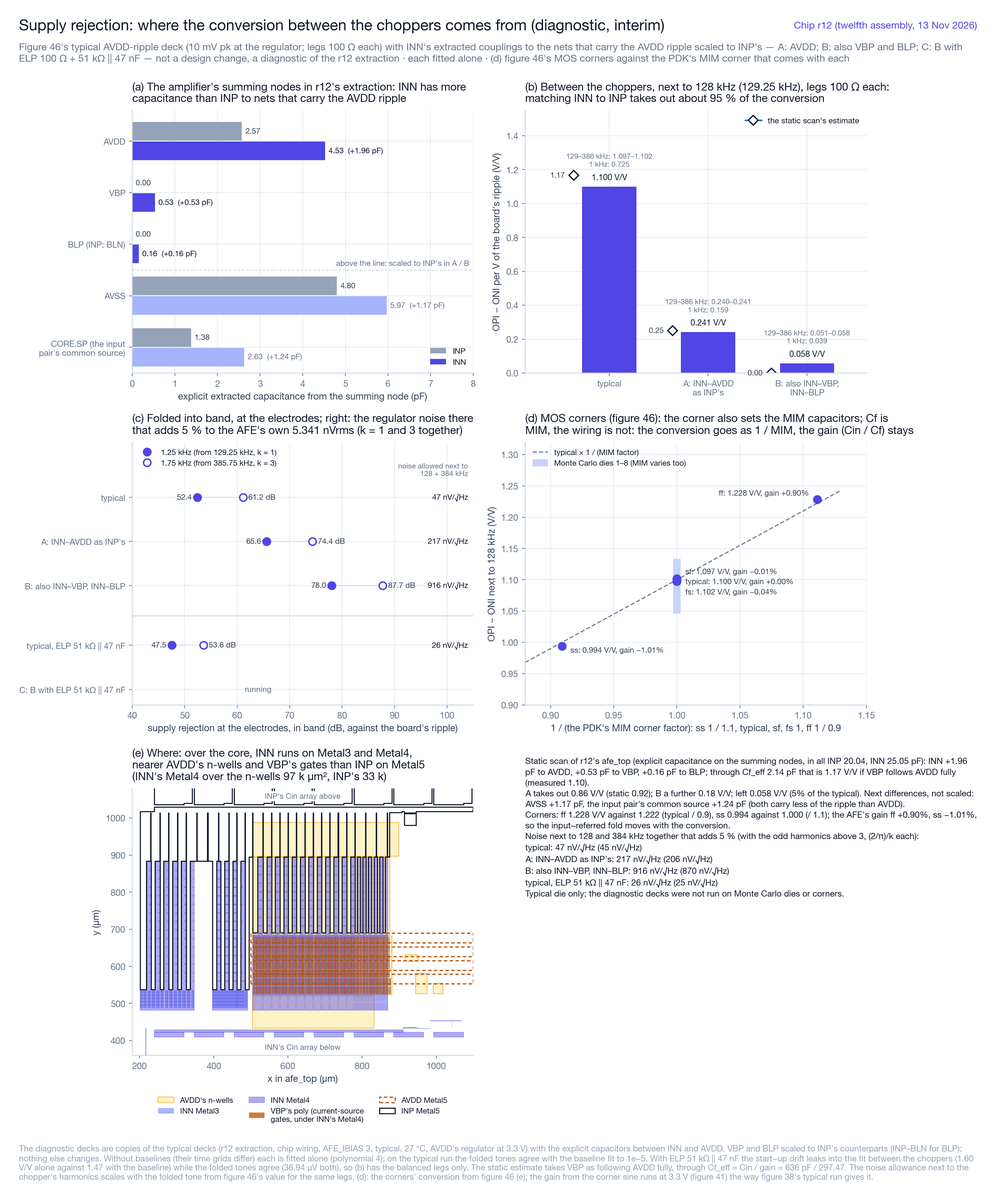
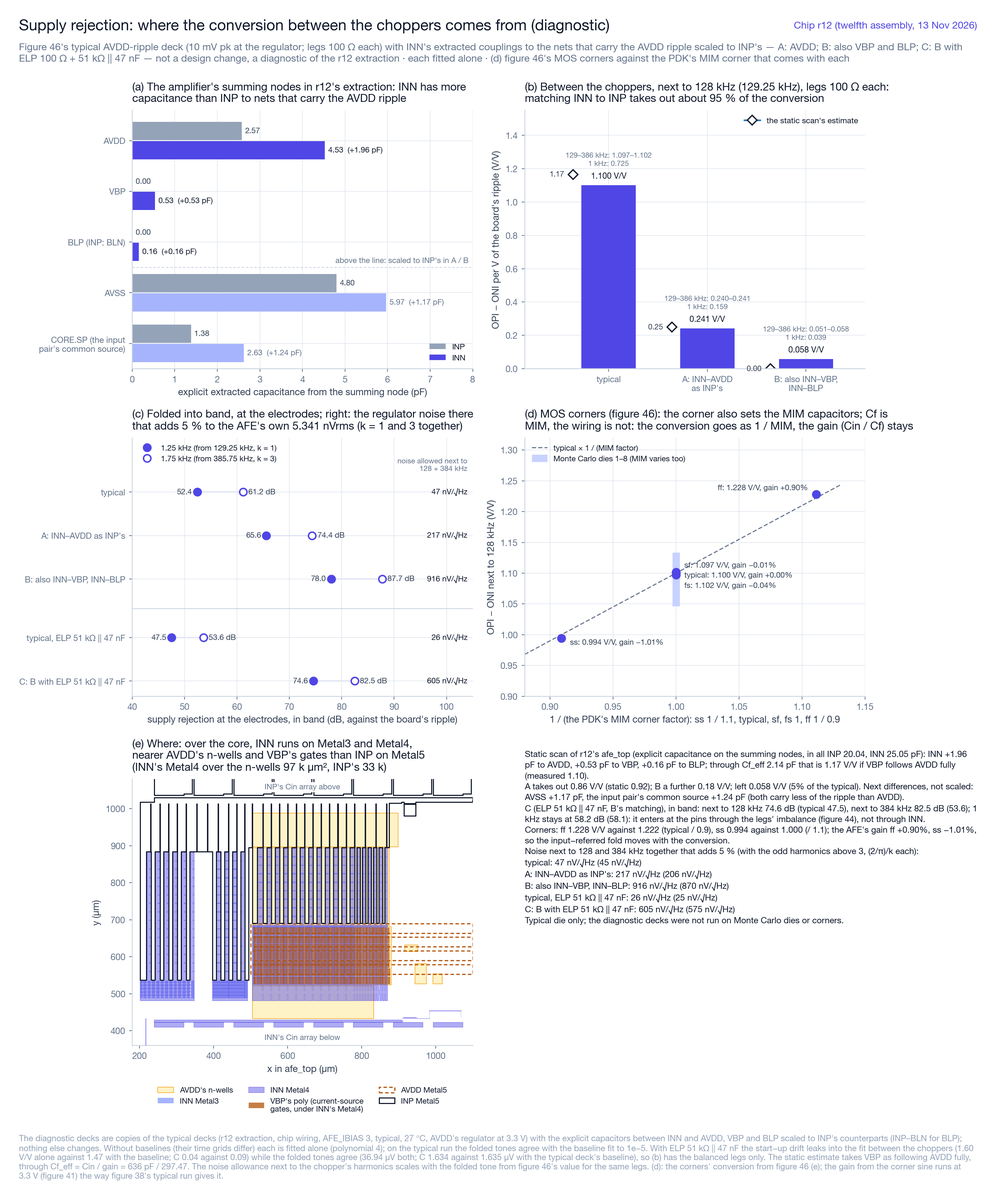
GF180 D7（11/19）：PSRR の診断 C と図 47 の仕上げ。B と同じに INN の AVDD、VBP、BLP への容量を INP にそろえ、ELP に 51 kΩ ∥ 47 nF を入れた C（設計の変更ではない）が、9 時 57 分〜12 時 34 分にターミナルのタブで 10 ms まで回った。帯域内で、128 kHz のそば（1.25 kHz に戻る）は 47.5 → 74.6 dB（36.94 → 1.63 µV）、384 kHz のそば（1.75 kHz）は 53.6 → 82.5 dB、128 kHz と 384 kHz のそばに許せる雑音は 26 → 605 n

diff --git a/first_tapeout_eeg/gf180/tapeout/viz/psrr_diag_fig.py b/first_tapeout_eeg/gf180/tapeout/viz/psrr_diag_fig.py
@@ -70,8 +70,9 @@ def main():
                        "and BLP scaled to INP's counterparts (INP–BLN for BLP); nothing else changes. Without baselines "
                        "(their time grids differ) each is fitted alone (polynomial 4); on the typical run the folded tones "
                        "agree with the baseline fit to 1e−5. With ELP 51 kΩ || 47 nF the start-up drift leaks into the fit "
-                       "between the choppers (1.60 V/V alone against 1.47 with the baseline) while the folded tones agree "
-                       "(36.94 µV both), so (b) has the balanced legs only. The static estimate takes VBP as following "
+                       "between the choppers (1.60 V/V alone against 1.47 with the baseline; C 0.04 against 0.09) while "
+                       "the folded tones agree (36.94 µV both; C 1.634 against 1.635 µV with the typical deck's baseline), "
+                       "so (b) has the balanced legs only. The static estimate takes VBP as following "
                        "AVDD fully, through Cf_eff = Cin / gain = 636 pF / 297.47. The noise allowance next to the "
                        "chopper's harmonics scales with the folded tone from figure 46's value for the same legs. (d): the "
                        "corners' conversion from figure 46 (e); the gain from the corner sine runs at 3.3 V (figure 41) "
@@ -230,6 +231,13 @@ def main():
                      f"{(st['AVSS/AVSS'][1] - st['AVSS/AVSS'][0]) / 1e3:+.2f} pF, the input pair's common source "
                      f"{(st['CORE.SP/CORE.SP'][1] - st['CORE.SP/CORE.SP'][0]) / 1e3:+.2f} pF (both carry less of the "
                      "ripple than AVDD).")
+    if "C" in runs and "typical, ELP 51k||47n" in runs:
+        u, c_ = runs["typical, ELP 51k||47n"], runs["C"]
+        items.append(f"C (ELP 51 kΩ || 47 nF, B's matching), in band: next to 128 kHz {tone(c_, 1)['psrr_board_db']:.1f} dB "
+                     f"(typical {tone(u, 1)['psrr_board_db']:.1f}), next to 384 kHz {tone(c_, 3)['psrr_board_db']:.1f} dB "
+                     f"({tone(u, 3)['psrr_board_db']:.1f}); 1 kHz stays at {tone(c_, 0)['psrr_board_db']:.1f} dB "
+                     f"({tone(u, 0)['psrr_board_db']:.1f}): it enters at the pins through the legs' imbalance (figure 44), "
+                     "not through INN.")
     ff, ss = cs.get("ff"), cs.get("ss")
     if ff and ss:
         items.append(f"Corners: ff {ff['between_vv']:.3f} V/V against {ff['pred_vv']:.3f} (typical / 0.9), ss "

diff --git a/first_tapeout_eeg/gf180/tapeout/pex/psrr_diag.py b/first_tapeout_eeg/gf180/tapeout/pex/psrr_diag.py
@@ -22,6 +22,11 @@ where the static estimate says 0.92). The MOS corners move it because the corner
 PDK's mimcap_ff 0.9, mimcap_ss 1.1 for the 2 fF/um2 MIM): Cf is MIM, the wiring is not, so the conversion goes as
 1 / (the MIM factor) (ff 1.228 against 1.100 / 0.9 = 1.222, ss 0.994 against 1.000), while the AFE's gain (Cin / Cf,
 both MIM) moves 1 % or less (the corner sine runs at 3.3 V: ff +0.9 %, ss -1.0 %).
+C (11/19 noon, ELP 51 kohm || 47 nF with B's matching): in band 74.6 dB next to 128 kHz and 82.5 dB next to 384 kHz
+against the typical deck's 47.5 and 53.6 dB (the noise allowance 605 against 26 nV/rtHz); 1 kHz stays at 58.2 dB (58.1):
+it enters at the pins through the legs' imbalance, not through INN. Its conversion between the choppers moves with the
+fit (0.04 and 0.09 V/V for k = 1 and 3 swap against the typical deck's baseline) while the folded tones agree (1.634
+against 1.635 uV next to 128 kHz).
 
 Usage: gf180/tools/venv310/bin/python gf180/tapeout/pex/psrr_diag.py --make     (writes runs/psrr_r12/diag_A, _B, _C)
        gf180/tools/venv310/bin/python gf180/tapeout/pex/psrr_diag.py --layout   (runs/psrr_r12/diag_layout.json)

diff --git a/first_tapeout_eeg/documentation/gf180_tapeout_tracker.md b/first_tapeout_eeg/documentation/gf180_tapeout_tracker.md
@@ -103,7 +103,7 @@
 | D4 | L3：AFE＋ADC＋DAC セル＋量子化器の短窓トランジスタ E2E。10/22：`gf180/tapeout/sim/e2e/e2e_deck.py`（AFE とそのクロックドライバ、ADC ブロック、バイアス生成、基準電圧のフィルタ。typical）で 70 µs を回した。16 kHz・フルスケールの正弦波で、AFE の出力（チョッパ周期の平均）の利得 268.9（周期平均の sinc を除くと約 276）、ADC まで含めた全体 282、量子化の残差 0.031（DAC の段の単位、ADC 単体と同じ）、AVDD 27.2 mA。窓が 16 kHz の 0.8 周期しかないので、利得の精度は数 %。AFE_RST を解除した瞬間の入力が Cin に残る起動時の現象を見つけた（AFE の文書）。1 本 45〜75 分。10/24：寄生込みの E2E（`gf180/tapeout/pex/pex_e2e.py`、`gf180_pex_20261023.md` の「寄生込みの E2E」、図 `documentation/figures/gf180/r9_20261029/e2e_pex/gf180_e2e_pex_r9_*.png`）。AFE と ADC を最終のチップ（B7、B4 の直し込み）の抽出に差し替え、Ch-A を横切る OUTP／OUTN のチップの配線（74／70 fF、片側 35.6 Ω）も足して、回路図と比べた。AFE の利得 291.4（回路図 291.5、配線込み 290.9）、全体 301.2〜301.9、AVDD 27.2 mA、O2 −33〜+34 mV で同等。量子化の残差は寄生込みで約 2 倍（0.017 → 0.032、帯域の外）。リセットの解除のあとの相 A／B の不釣り合い（寄生込みで 19 mV、時定数 143 µs で抜ける）で、ADC の入力の瞬時値は最大 297 mV（フルスケール 300 mV の内側）。仕様を外れるものはない。10/25：4 回目のチップ（電極の DC 電流の直しのあと）の抽出で回し直した。AFE の利得 291.3（配線込み 290.8）、全体 301.5〜302.5、量子化の残差 0.028／0.021。相 A／B の不釣り合いは 19 → −2.6 mV（その大きさは入力チョッパのクロックの結合の WP／WN の差で決まっていた）、ADC の入力の瞬時値は ±287 mV で回路図と同じ。10/26：5 回目のチップ（WN の配線抵抗の直しのあと）でも回し直し、ほぼ同じ（相 A／B −2.7 mV、量子化の残差 0.026／0.021、ADC の入力 ±287 mV）。10/26 夜：6 回目のチップ（Magic DRC の直しのあと）でも回し直し、ほぼ同じ（AFE の利得 291.3、相 A／B −2.7 mV、量子化の残差 0.025／0.021、ADC の入力 ±287 mV）。10/30：9 回目のチップ（ADC は C1・C2 を 1.25 倍にした 7 回目の抽出、AFE は 6 回目と同じ）で回し直した（`runs/e2e_r7/`。d4 と sch も今の回路図で）：AFE の利得 291.3（配線込み 290.8）、全体 299.8〜300.4、量子化の残差 0.016／0.017（回路図 0.017。寄生込みで増えなくなった）、相 A／B −2.7 mV、ADC の入力 ±287 mV。11/9：10 回目のチップ（量子化器のラッチのグラウンドを AVSS につないだ ADC の抽出）で 4 通りとも回し直し、すべて同じ値（`runs/e2e_r10/`。抽出は基板を AVSS とするので、前からラッチは AVSS につながった形で計算されていた）。11/13：11 回目と 12 回目の抽出でも回した（`runs/e2e_r11/`、`runs/e2e_r12/`）。寄生込みは AFE の利得 291.4、全体 299.8／300.4、残差 0.019／0.019。チップの配線込み（pexchip。OUTP／OUTN が約 20 Ω 長くなった）は 290.6、299.9／299.5、0.018／0.014 で、r10 と同じ大きさ。残り：コーナー | 11/17 | ▶（typical ✅、寄生込み ✅） |
 | D5 | 今回 rev の構成決定レビュー。判断が要るもの：ADC のポリ抵抗のフリッカ（11/12、D7、図 33。PDK の大きさを今の電流でとると、フルスケールで 16.26 bit）。11/12 に直す案を調べた（`gf180_realistic_eval_20261028.md` の「RIN と DAC1 を ppolyf_u に替える案」、図 `plan_20261112`、設計はまだ変えていない）：1 単位（300 kΩ）を幅 0.8 µm の ppolyf_u 2 本の直列にすると、雑音 0.069 倍で、フルスケールでも 16.57 bit。抵抗の間を 0.4 µm にし、OTA1 と第 2 段を東へ 28.9 µm ずらせば ADC に収まる（外形は同じ）。角は今と同じ ±20 %、温度による変化は約 1/10。DAC1 は偶成分が要求の 1/90 以下のまま、出力の電位差への感度が 1.59 倍（ループの HD3 約 −129 dBc）、BRK の時間は同じ。R21 も替えるとよい。替えるなら ADC のレイアウト、DRC／LVS、precheck、PEX、DAC1 とループの確認、通し（約 54 時間）をやり直す（1 週間ほど）。替えないなら、フルスケールの 16.26 bit を予測として明記し、チップで測る。勧めは替えるほう（ENOB はフルスケールに近い正弦波で測るため）。**11/12 にユーザーが替えると決めた**（RIN と DAC1、勧めのとおり R21 も ppolyf_u に。11 回目のチップで作業する。走っている 10 回目の通しは r10 の抽出だけを読むので、止めずに進める）。11/12〜13：11 回目のチップで替えた（E4）。作ったままの抵抗でフリッカを計算し直し、フルスケールで 0.29 nVrms、16.57 bit（入力が小さいときと同じ。`runs/adc_flicker_r11`）。11/13：外から指摘のあった、敏感な網の下を通るクロックとデータの線を、ユーザーの判断で 12 回目で直した（E3、E4）。AFE の通路の覆いで電極の DC 電流が ±1.56 → ±1.71 nA になるが、ユーザーの判断で覆いは残した。**発注の候補は r12**（E8）。**11/18 の構成決定（ユーザーの判断）**：チップは r12 のまま。AVDD は調整できるレギュレータでダイごとに合わせる（F2）。DAC で打ち消したオフセットの電流のためにチップは直さず、限界として記録する（D7、勧めに対する返事「go」） | 11/18 | ✅ |
 | D6 | L4：重要ブロックの PEX 確認（チョッパの寄生結合、AFE 入力節点、積分器・DAC）。10/23：magic で寄生容量を抽出し（ネット名は KLayout の LVS の結果で回路図に対応づけ、MIM の基板容量は下の板へ補正）、入力の信号経路の配線抵抗は KLayout の R 抽出で求めた。AFE、ADC のループ、DAC1、OTA1 のチョッパを、回路図・抽出した素子だけ・寄生込みの 3 つで比べた（`gf180/tapeout/pex/`、`documentation/gf180_pex_20261023.md`）。寄生容量だけなら差は小さい（AFE の雑音 4.64 → 4.70 nVrms、利得 −0.2 %、HD3 −116 dBc、ADC のループの利得・CM・電流、積分器の整定は同等）。**仕様を外れるもの 4 つ**：① 入力の信号経路の配線抵抗が片側 76／119 Ω（コアの入力対のゲート配線 72／115、Cin の下の板の網 4.0、チョッパの EP／EN 0.35）で、AFE の雑音 19.1 nVrms、約 14.8 bit。② DAC1 の偶成分 0.47〜0.69 fC（要求 0.008 fC）で SNDR 約 70 dB。③ DC 経路のスイッチの CIB2 の結合の非対称で AFE の出力に 39 mV p-p のリップル。④ 量子化器の入力の結合の非対称で判定が平均 +2.4 LSB ずれる。原因と直し方（目標値つき）は文書の「直し方」。直したあと同じ流れで確かめる。10/24：4 件をレイアウトで直し（E3、E4）、チップを組み直して抽出と比較を回し直した（文書の「直したあとの確認」）。4 件とも仕様の内側に戻った：配線抵抗は片側 0.634／0.676 Ω（チップで測定。Cin の下の Metal3 の面は Tesselation）、DAC1 の偶成分 −0.0014 fC（123 dB）、リップル 3.62 mV p-p、量子化器の入力の結合はそろい、ループの残差 0.027。AFE の雑音は寄生込みで 4.81 nVrms、配線抵抗込みで 5.05 nVrms、総残差 6.05〜6.07 nVrms（16.45〜16.46 bit）で、16.50 bit に 0.04〜0.05 bit 足りない（片側 0.35 Ω まで下げるには AFE の配置の変更が要り、今回 rev はこの形）。抽出の補正を直した：magic が MIM の上の板に付ける、下の導体（Cin の下の Metal3 の面など）への容量を下の板へ移す（`pex.py` の `mim_shield`。AFE で WP–INP の見かけの 21.3 pF を消した）。**新しく 1 件が仕様を外れた**（直し方 1、2 の副作用）：INP と増幅器の出力 ONI／OPI の結合（P 側だけ 617／526 fF。コアの上端で INP を Cin のバスへつなぐ Metal5 の下を ONI／OPI の Metal4 が通る）で、フルスケールの HD2 −70 dBc（仕様 −111 dBc 以下）、利得 −2 % 前後。抽出からこの結合だけを除くと HD2 −114 dBc に戻る。E3 で直した（幹線を移して遮蔽、出力部の P 側を N 側の鏡映に。4 つの結合は 9 fF 以下、HD2〜HD5 −113.8／−117.2／−120.9／−137.7 dBc、利得は回路図に戻った）。リップルは 4.00 mV p-p（目標の境、クロックの線と出力の結合の P／N の差。帯域の外なので受け入れ）。チップを組み直した（E7）。2 回目までの歪みの確認は 2 kHz だけで、帯域内の低い周波数の HD2（DC 経路が 1 本で −87 dBc）は B7 の確認で見つかり、DC 経路を対称にして直した（0cb0fff4）。B7 と B4 の直しを入れた最終のチップ（3 回目、10/24）で確かめ直した：帯域内のフルスケールの HD2〜HD5 −132.7／−120.4／−160.9／−144.5 dBc、リップル 2.02 mV p-p、AFE の雑音 4.81 nVrms（配線抵抗込み 5.05）、配線抵抗は片側 0.634／0.676 Ω で変わらず。チップは DRC 違反なし、LVS 一致、穴埋めのあとの全 DRC も違反なし、precheck 通過。**10/25：信号がなくても電極に流れる DC 電流を調べて直した**（文書の「電極に流れる DC 電流（10/25）」）。3 回目の抽出の I_ELP −40.0／I_ELN +33.3 nA（`viz_data.py zin`）のうち、同相の −3.4 nA ずつは ngspice の GMIN による見かけ（抽出の入力 TG が PMOS M=1024・NMOS M=512 の 1 素子ずつで、接合ごとの GMIN が打ち消さない）で、実際は差動 ±36.6 nA。入力チョッパのゲートのクロックの結合が WP と WN で違い（チョッパの中のストラップの並びで WN だけが CIA／NCIA のピンの隣、ゲートの折り返しが WN の面の下、上端の WP の板、OFPH の西の線が WN の面の下）、交換器が電荷を一方の電極から他方へ運んでいた。電極の要求を 1 本あたり 1 nA 以下（1 MΩ で 1 mV）とし、1 MΩ で片側 37 mV（16.5 bit の前提の電極オフセット数 mV を外れる）なので不適合と判断して、E3 のレイアウトで直した：差動 ±1.65 nA（22 分の 1、ポンプに効く結合の差 −90.6 → +0.6 fF）、チップの配線を足して ±1.35 nA。残りはコアの INP／INN の寄生の非対称による（抽出で INP／INN を対称にすると差動 +0.5 nA）。今回 rev はこの値で受け入れる（1 MΩ で片側 1.65 mV、範囲 1 の内側）。雑音 4.811 nVrms、利得 297.89 は変わらない。副作用：チョッパの下の WN の面からゲートのレーンの通路を外したため、WN の W の配線抵抗が 0.339 → 0.570 Ω（通路を渡るのが Cin_N のバス 5 µm だけ）。配線抵抗込みの雑音 5.048 → 5.086 nVrms、総残差 6.05 → 6.08 nVrms（16.46 → 16.45 bit）。直すなら通路の上に WN の Metal5 だけを戻す（`gf180_pex_20261023.md`）。10/25 午後：可視化の図（`gf180_viz_20261024.md`）と、配線抵抗・歪み・寄生込みの E2E を 4 回目のチップで測り直した：帯域内の静的な HD2〜HD5 −165.8／−120.3／−148.9／−145.5 dBc、2 kHz −134.1／−118.2／−143.9／−141.6 dBc（仕様の内側）。10/25 夜：通路の上に WN の Metal5 を戻して直した（5 回目のチップ、E3）：WN の W 0.354 Ω、配線抵抗は両側 1.32 Ω（1.47 nVrms）、配線抵抗込みの雑音 5.049 nVrms、総残差 6.05〜6.07 nVrms（16.45〜16.46 bit、10/24 と同じ）。ポンプに効く結合の差 +0.61 → +0.80 fF、電極の DC 電流 ±1.56 nA、利得 297.89、リップル 2.37 mV p-p。10/26 朝：歪み、寄生込みの E2E、`viz_data.py` の AFE の組も 5 回目の抽出で回し直した（4 回目とほぼ同じ）：帯域内の静的な HD2〜HD5 −167.2／−120.3／−149.0／−145.5 dBc、2 kHz −134.2／−118.1／−143.0／−141.5 dBc、E2E の AFE の利得 291.3、相 A／B −2.7 mV、ADC の入力 ±287 mV。可視化の図 10、16〜24 も描き直した。10/26（6 回目、Magic DRC の直し：抵抗のコンタクトと MIM の Via4）：AFE と DAC1 を抽出し直して確かめた。雑音 4.811 nVrms（配線抵抗込み 5.050）、利得 297.89、リップル 2.37 mV p-p、電極の DC 電流 −1.55／+1.57 nA、DAC1 の偶成分 −0.00135／−0.00125 fC で 5 回目と同じ。配線抵抗の W は Cin の Via4 の分で 0.347／0.357 Ω（+3〜4 mΩ、`gf180_pex_20261023.md`）。10/26 夜：歪み（帯域内の静的な HD2〜HD5 −164.0／−120.3／−148.9／−146.0 dBc、2 kHz −133.9／−118.1／−141.4／−141.1 dBc）、寄生込みの E2E、`viz_data.py` の組、ADC のループ（利得 1.0040、残差 0.0318、判定が理想のしきい値と合うフレーム 91.2 %。3 回目の抽出からの差は 80 フレームの窓の揺れの範囲）、DAC1 の偶成分の行動モデル（123.0 dB）も 6 回目の抽出で回し直した。どれも 5 回目（ADC は 3 回目）とほぼ同じ。可視化の図は版ごとのフォルダ（`documentation/figures/gf180/r6_20261026/`）に全部描き直し、KLayout で描いたレイアウトの図 9 枚を足した。10/30：9 回目のチップ（今の版）の図を `documentation/figures/gf180/r9_20261029/` に全部描き直した。ADC は 7 回目の抽出（ループの利得 0.9974、残差 0.0202、判定 95.0 %、DAC1 の偶成分の行動モデル 123.0 dB）、AFE は 6 回目と同じ抽出、チップの配線を通す結果（雑音、入力経路の配線抵抗、起動、OUTP／OUTN の窓）は 9 回目で取り直した | 10/30 | ✅ |
-| D7 | 実際に近い条件での立ち上がりと性能（10/27〜、`gf180_realistic_eval_20261028.md`）。電源投入から（電源のランプ、`uic`）、RTL のリセットの順序、パッドリング、基板（仮定）とボンディングワイヤ、チップの配線（`pex_chipnets.py`：パッドセル、AVDD／AVSS の網とデカップリング、ブロックの間の配線と結合）、抽出した afe_top／eeg_bias／eeg_ref、モンテカルロ（工程と素子ごと。MIM と抵抗の素子ごとは仮の係数）、AVDD ±5 %（`gf180/tapeout/pex/afe_startup.py`）。雑音はチップの実際の動作点で測る（`afe_chip_noise.py`）。ADC を含めた電源投入からの通しは `e2e_startup.py`。10/28：雑音は上の予算の表のとおり（code 3 で 16.40 bit）。電極 0 V の立ち上がり（code 2、typical・±5 %・モンテカルロ 10）は、解除の 1 周期で −0.08〜−0.40 mV 振れ、7 µs 以内に −0.073 ± 0.002 mV（電極換算 −0.24 µV）に落ち着く。バイアスは電源投入から 0.91〜0.95 ms で 1 % 以内。通しのデッキは電源投入から AFE の解除後 50 µs まで回り、全体の利得 298.3。10/28〜29：AFE_IBIAS code 3 の書き込みを入れたモンテカルロ 30 と ±5 %、電極の DC オフセット、正弦波、VCM の容量 100 nF／1 µF、ADC 側を実際の条件で回した（ADC の C1・C2 を 1.25 倍にした）。10/31：9 回目のチップの配線で起動を回し直した。モンテカルロ 30 と ±5 % はすべて最後まで回り、解除後の出力は −0.075 ± 0.006 mV、0.1 mV まで 12 µs 以内、バイアスは 0.89〜0.97 ms で 1 % 以内で、6 回目と実質同じ。電極の DC オフセットは 300 mV まで打ち消せ、段の大きさは抽出のビットの重みで説明できる（どの範囲でも単調、残差の最大は範囲 1 で 153 µV、範囲 2 以上で 166 µV）。11/2：電源投入から CIC の出力までの通し（r6、r7、10 ms）が最後まで回った。有効な 3 サンプルはどれも RTL とビット一致し、電極から DATA までの利得は 306.6（r6 と r7 のサンプルの差は 7 LSB 以内）。11/8〜9：デジタル側（9 個の bi_24t、ブロックの電源電流、チップの DVDD／DVSS）を、9 回目の通しのチャンク 14 に入れて比べた（`digital_noise.py`）。リングの揺れは 18 → 59 mV p-p、ADC のデジタルの電源は 417 mV p-p。結合で AFE の出力にできる一定のずれは電極換算 0.21 nV で、DATA の約 1 LSB、計算の差（0.13 nV）と同じ大きさ。ADC の符号は 48 フレームとも一致した。この結合は MCLK に同期するので、一定のずれにしかならない。SPI の読み出しでも符号は一致し、周期ごとの差は 0.2 nV rms 以下。11/9：RAW の出力を動かす組（b3）も最後まで回った。AFE の入力の揺れは b1 の約 2 倍（同相 15.2 mV p-p、差動 16.7 µV p-p）になるが、出力の一定のずれは −0.11 nV、周期ごとの残りは 0.11 nV rms で、符号は 48 フレームとも一致した（図 31、`documentation/figures/gf180/r10_20261109/viz/`）。11/11：9 回目のチップの配線での通しも最後まで回った。有効な 3 サンプルはどれも RTL とビット一致し、7 回目より 0.064 % 大きい。差はすべて AFE の利得の差で、AFE の AVSS の持ち上がりが小さくなって AFE の電流が約 1 % 増えたため。ADC 側は 7 回目と同じだった。11/11：図 31 のデッキの ADC を 10 回目の抽出に替えて、5 本を回し直した（b2 は区切り点の近さで一度止まり、MISO を 0.125 ns ずらして回し直した）。5 本とも 48 フレームの ADC の符号が 7 回目の抽出のときと同じだった。結合の一定のずれは電極換算 0.30 nV で、計算の差（0.27 nV）と同じ大きさ。SPI の読み出しと RAW の出力でも、周期ごとの残りは 0.3 nV rms 以下。図 31 を描き直した。11/13：10 回目の通しも最後まで回った。有効な 3 サンプルはどれも RTL とビット一致し、9 回目との差は +4、−1、−3 LSB（1 本の中の続くサンプルどうしの違いと同じ大きさ）、電源と基準は 9 回目と同じ。11 回目の通しは、12 回目に替えたのでチャンク 4 で止めた。11/13：11 回目と 12 回目のチップの配線で雑音を回し直し、9 回目と 0.001 nVrms 以内で同じ（AFE_IBIAS 3 で typical 5.327 nVrms、モンテカルロ 30 の最悪 5.498 nVrms）。11/15：12 回目の起動のバッチは 50 本のうち 32 本が済み（モンテカルロ 18 本）、9 回目と同じ値（バイアス 0.91〜0.95 ms、解除から 0.1 mV まで 9 µs 以内、出力 −0.099 ± 0.006 mV、電極のオフセットの残差は出力で 0.06 mV 以内で同じ）。電源投入をプロセスの角 4 つ × AVDD ±5 % と電源の立ち上がり 10 µs〜100 ms で回し、20 本とも起動した（起動回路は AVDD 0.61〜1.03 V で切れる。図 37、`powerup_checks.py`）。基板への要求に、AVDD と外の基準を DVDD より先に上げないこと（アナログのパッドの ESD ダイオードが DVDD のリングへ向く）と、解除を電源が上がりきってから数えることを足した。11/16：12 回目の起動のバッチ 50 本と通し（71 時間）が終わった。通しの有効な 3 サンプルはどれも RTL とビット一致し、10 回目より −0.175 %（ADC の基準電圧 +0.057 %、AFE の利得 −0.116 %）。角での AFE の解除（図 38）：どの角でも動き出すが、BOOST_TRIM がリセット値 4/4 のままだと、フルスケールの HD3 が ss −97.6、sf −96.8、fs −106.1 dBc で要求（−111 dBc）に届かない。AVDD −5 % ではどのトリムでも届かない。AVDD を上げるとよくなり、3.40 V と角ごとのトリムで 5 つの角が届く。チップの窓は約 3.394〜3.456 V（図 41）。ADC は ADC の電源 3.39 V でも 3.245 V と同じに動く。ただし、typical を地図の 2/2 にすると、AVDD を上げた分だけ AFE の雑音が増える（3.45 V で 5.73 nVrms、予算で 16.47 bit。BTRIM_P を 4 以上にすれば平ら。図 42）。BTRIM_P 4 でも HD3 は届く：チップの HD3 は、typical 4/2 が 3.40 V で −117.0 dBc（2/2 の −116.8 と同じ）、リセット値の 4/4 が 3.40 V で −115.6、3.45 V で −116.4 dBc（要求に 4.6 dB 以上の余裕）。typical のトリムは 4/2 を勧める（雑音は平らで、予算は 3.45 V でも 16.56 bit。窓の上の端は ff 8/2 の約 3.460 V になる）。電極のオフセットで飽和した最初の電源投入（図 39）：書いても増幅器は出力チョッパの後ろで飽和したまま残るので、ホストは書くたびに AFE_RST を 100 µs 上げる（typical と ss で確かめた。ss では typical の M では残差が大きく、M の探索がもう 1 回要る）。パルスなしでも 300 mV は書いてから 2.82 ms で ADC の範囲に戻るが、11 ms でも出力は図 27 より入力換算約 −31 µV ずれ、入力のコモンモード（0.18 V 低い）と一緒に時定数約 47 ms で抜けていく（11/17、11 ms まで回した。パルスなら 0.5 µs で範囲に入り、2.5 ms 後に +0.7 µV）。ADC は過負荷から自分で戻る（最大 0.22 ms、図 40）。デジタル側（図 31）を 12 回目の通しのチャンク 14 で回し直した（4 本、23 時 44 分に済んだ）：48 フレームの ADC の符号はどの組でも一致し、結合の一定のずれは電極換算 0.02 nV（計算の差 0.25 nV より小さい）、SPI の読み出しは +0.42 nV、RAW の出力は +0.64 nV（周期ごとの残り 0.27 nV rms 以下）で、10 回目と同じ大きさ。リングと電源の揺れも 10 回目と同じ。図は 12 回目の 42 枚がそろい（39 は 11/17 に仕上げた）、11/17 に 43 を足した。11/17：PDK にない係数への余裕（図 43）：DAC1 の素子のばらつきを仮の係数の 8 倍にしても ENOB は変わらない（30 ダイの平均 16.60 bit）。入力抵抗の電圧係数は vc2 が約 300 ppm/V² まで 16.5 bit に届く。オフセット DAC は MIM のばらつき 4 倍まで単調で、運転中の窓の内側。チップを直す必要はない。11/17：同相の除去（CMRR）と電極の不釣り合い（`afe_startup.py` に体の同相と電極のインピーダンスを足し、`cmrr.py` で解析。図 44 は途中の版）。1 kHz で、釣り合った電極では 105.4 dB（チップ自身の分）、ELP に 51 kΩ ∥ 47 nF では 50.7 dB で、ほぼ全部が脚の電流が電極のインピーダンスを流れる分。脚 1 本から見た同相は 18.6 nS ∥ 138.5 pF（Cin を通る分 63.6 pF、入力チョッパのスイッチ 65.2 pF、パッドなど 9.7 pF。コンダクタンスのうち 6.1 nS は ngspice の既定の gmin の見かけ）。朝の見込み（−64 dB）はこの容量を落としていて、50 Hz では 54.3〜54.7 dB（100 mV pk の同相で電極換算 184〜193 µV pk）の見込み。11/18：基準（1 時 45 分に済んだ）を差し引いて当てはめ直しても同じ（105.4 dB、50.7 dB）。解除までは脚 1 本の同相が約 795 pF で、不釣り合いの 47 nF に残る電荷が時定数 2.4 ms で窓に入るので、当てはめに指数を足した。AFE_RST を上げているあいだは、チョッパが動いているとピンの差動が約 5.4 kΩ（Cin のスイッチト・キャパシタ。Cpf の打ち消しが働かない）になり、電極の DC オフセットが電極のコンデンサを充電する。51 kΩ ∥ 47 nF と 300 mV では、11/16 の手順（書くたびに 100 µs）で AFE が書いてから約 12 ms 飽和する見込み。図 39 は電極 100 Ω だったので出なかった。AFE_RST と一緒に CHOP_EN（同じ CONTROL）を下げる手順を、2 時 1 分から回して確かめている（`afe_saturation.py --zp --chop-hold`）。11/18：50 Hz の 2 本も 5 時 40 分ごろ 26 ms まで回った（1 周期）。51 kΩ ∥ 47 nF で 54.2 dB（100 mV pk の同相で電極換算 194 µV pk、フルスケールの 21 %。gmin の見かけを除くと 54.6 dB）、釣り合いで 151 dB で、見込みどおり。出力はシミュレーションのピンの差動と 0.04 % で合い（50 Hz の利得 297.58）、ほぼ全部が電極の側。脚のコンダクタンスのうち 12.2 nS は、Cin を通して見える入力のコモンモードの DC 経路（時定数 47 ms）。1 周期の当てはめでは、47 nF の指数をチップの側（脚の電流、体）にも入れると脚のアドミタンスが最大 30 % 動くので、出力とピンだけに入れた（当てはめを変えても 54.14〜54.26 dB）。CMRR のためにチップを直す必要はない。図 44 を仕上げた。11/18 の朝：DAC で打ち消した電極のオフセットには、解除のあとも約 5.4 kΩ がかかることが分かった（図 27 のランで 10〜300 mV とも 5.36〜5.44 kΩ。Cin のスイッチト・キャパシタで、Cpf は出力に出ている分しか補わない）。電極にオフセット / 5.4 kΩ（30 mV で 5.4 µA、300 mV で 54 µA）の DC 電流が流れ、10/23 の要求（電極 1 本 1 nA 以下）を DAC の 1 段（56 nA）から外れる。電極に抵抗 R_e があると、ピンに届くオフセットは 5.4 kΩ / (5.4 kΩ + R_e) 倍（51 kΩ で 300 → 28.4 mV）。未明の見立て（解除のあとは MΩ、書いてから約 12 ms 飽和）はこの点で誤り。D（電極 100 Ω、CHOP_EN を下げる）は、解除のあと入力のコモンモードがはじめから釣り合いにあり、図 27 より出力が電極換算 2.9 µV 釣り合いに近い。RTL のリセット値は変えないことを勧める。この DC 電流のために今回 rev でチップを直すことはせず、限界として記録する（11/18、朝の勧めに対する返事「go」）。B（51 kΩ ∥ 47 nF、M 983、CHOP_EN を下げる。6 時 21 分に 10 ms まで回った）：解除のときピンは 116 mV で、M 983（295.8 mV）に対して AFE は逆向きに飽和したまま残り、チップがピンを −349 mV へ引く（時定数 0.57 ms、10 ms で −348 mV、電極に 12.7 µA、ADC の入力 −1.80 V）。電極 100 Ω では同じ書き込みで解除と同時に範囲に入る。合わない M を残したまま待たないこと、パルスのあいだもチョッパを動かすことを、手順に書く（図 45、途中の版）。E、F（M 94、パルス 1 ms と 100 µs。8 時 47 分から回し直し、11 時 58 分に 10 ms まで回った）は、どちらも増幅器の入力 +5.0 mV（ADC の入力 +1.0 V）に落ち着き、範囲に戻らなかった。パルスの長さは行き着く先を変えず、行き着く先は M で決まる。M 94 は、ピンの単純な平均（28.4 mV）に合わせたもので、増幅器が取り込むチョッパの切り替えの直前の値（約 1.3 mV 高い）に合っていなかった。読み（見立て）：解除のあとは DAC で打ち消した分だけが電流を流す（M × 0.301 mV / 5.56 kΩ）ので、電極の電圧降下が M で動き、M の 1 段は増幅器の入力で 0.301 mV × (1 + R_e / 5.56 kΩ)、51 kΩ で約 3 mV（ADC の範囲 ±1.63 mV とほぼ同じ）。最良の M でも最大 ±1.5 mV が残り、約 55 kΩ（R_sc 5.67 kΩ）を超えると範囲に入らないオフセットが出る。原因は DAC で打ち消したオフセットの電流と同じ。G（M 98、99、100、パルス 1 ms。15 時 42〜46 分に 10 ms まで回った）で確かめた：範囲に入るのは M 100 だけで、ホストの読み（ADC の入力 / 297.5）は M 100 で −0.79 mV、M 99 で +1.63 mV（範囲の端）、M 98 で +2.55 mV、M 94 で +3.33 mV に落ち着く。範囲の中ではチップは電極から見て電流源（M × 0.301 mV / 5.67 kΩ。電極は 51 kΩ × 47 nF = 2.4 ms で動く）で、1 段は 3.0 mV（M 99 → 100 は範囲の端の圧縮で 2.42 mV）。範囲の外では Cpf が残差を補いきれず、チップが電極を引き戻す（時定数 0.35〜0.40 ms）。電極の抵抗の変化への感度は電流そのもの（5.3 µV/Ω、範囲の中心から 0.3 kΩ で範囲を出る）で、朝に書いた 0.50 µV/Ω（チップを抵抗とみた値）の約 10 倍だった。アクティブ電極なら問題は出ない。チップを直すかを、夕方にユーザーに判断をあおいでいる。A は B から読めるので回し直さない。11/18 の構成決定で、AVDD はダイごとに合わせると決めた（ユーザーの判断。トリムも試験でダイごとに、F2、F4）。11/18 の夜：同相の釣り合いの値を帯域内（チップの CIC が見る値、`cmrr.py` の inband）で測り直した。1 kHz の 105.4 dB（0.52 µV）は、チョッパの間で起きる変換（出力のチョッパで ADC の入力に矩形波として出る。同相 97.5 mV pk で 104.7 mV pk、50 Hz では 99.95 mV pk で 7.1 mV）を、チョッパ周期の平均が折り返した見かけで、帯域内では 148 dB（50 Hz は 147 dB）。不釣り合いの値は 0.13 % 以内で同じで、結論は変わらない。図 44 を直した。実際のレギュレータの PSRR は、21 時 44 分から AVDD と DVDD のリップル（電極は釣り合いと 51 kΩ ∥ 47 nF）を回している（`afe_startup.py --rip`、`psrr.py`）。11/19：PSRR の typical（図 46）。低い周波数のリップルはチョッパで除かれる（釣り合いで AVDD の 1 kHz 139 dB、DVDD 197 dB）。AVDD の 128 kHz の奇数倍のそばは、チョッパの間の変換（増幅器の出力に 1.10 V/V）が出力のチョッパで帯域に戻り、52.4 dB（384 kHz のそばは 61.2 dB、偶数倍は 132 dB）。51 kΩ ∥ 47 nF では帯域内の AVDD が 50 Hz で 62.5 dB（脚 1 本の AVDD への 59 pF：入力スイッチのウェル 24、Cin を通る分 24、残り 11）。基板への要求を F2 の (4) に書いた。モンテカルロ 8 と MOS の角 4 を 1 時 8 分〜7 時 57 分に回した。8 ダイは 128 kHz のそばで 52.1〜52.8 dB、チョッパの間の変換 1.05〜1.13 V/V で typical と同じ（ミスマッチではない）。角は ff が 51.5 dB（1.23 V/V）、ss が 53.2 dB（0.99 V/V）。F2 の (4) を ff から約 40 nV/√Hz に決め直した。変換の出どころ：抽出では INN が INP より AVDD に 1.96 pF、VBP に 0.53 pF、BLP に 0.16 pF 多い。この容量を INP にそろえた診断（A：AVDD、B：VBP と BLP も。設計の変更ではない）で、変換は 1.10 → 0.241 → 0.058 V/V、128 kHz のそばは 52.4 → 65.6 → 78.0 dB（図 47）。変換の約 95 % は INN の余分な配線の容量から来る。場所は増幅器のコアの上で、INN は Metal3 と Metal4、INP は Metal5 を通る（INN の Metal4 が AVDD の n-well の上に 97,000 µm²、VBP のゲートの上に 38,000 µm²）。角で動くのは、PDK の角が MIM の角（ff 0.9 倍、ss 1.1 倍）も変え、変換が MIM の Cf に反比例するため（AFE の利得は 1 % 以内）。ELP に 51 kΩ ∥ 47 nF でそろえた C を 9 時 57 分から回している。基板への要求で受けるか、r13 で INN の配線を直すかは、C のあとで判断をあおぐ | 11/19 | ▶ |
+| D7 | 実際に近い条件での立ち上がりと性能（10/27〜、`gf180_realistic_eval_20261028.md`）。電源投入から（電源のランプ、`uic`）、RTL のリセットの順序、パッドリング、基板（仮定）とボンディングワイヤ、チップの配線（`pex_chipnets.py`：パッドセル、AVDD／AVSS の網とデカップリング、ブロックの間の配線と結合）、抽出した afe_top／eeg_bias／eeg_ref、モンテカルロ（工程と素子ごと。MIM と抵抗の素子ごとは仮の係数）、AVDD ±5 %（`gf180/tapeout/pex/afe_startup.py`）。雑音はチップの実際の動作点で測る（`afe_chip_noise.py`）。ADC を含めた電源投入からの通しは `e2e_startup.py`。10/28：雑音は上の予算の表のとおり（code 3 で 16.40 bit）。電極 0 V の立ち上がり（code 2、typical・±5 %・モンテカルロ 10）は、解除の 1 周期で −0.08〜−0.40 mV 振れ、7 µs 以内に −0.073 ± 0.002 mV（電極換算 −0.24 µV）に落ち着く。バイアスは電源投入から 0.91〜0.95 ms で 1 % 以内。通しのデッキは電源投入から AFE の解除後 50 µs まで回り、全体の利得 298.3。10/28〜29：AFE_IBIAS code 3 の書き込みを入れたモンテカルロ 30 と ±5 %、電極の DC オフセット、正弦波、VCM の容量 100 nF／1 µF、ADC 側を実際の条件で回した（ADC の C1・C2 を 1.25 倍にした）。10/31：9 回目のチップの配線で起動を回し直した。モンテカルロ 30 と ±5 % はすべて最後まで回り、解除後の出力は −0.075 ± 0.006 mV、0.1 mV まで 12 µs 以内、バイアスは 0.89〜0.97 ms で 1 % 以内で、6 回目と実質同じ。電極の DC オフセットは 300 mV まで打ち消せ、段の大きさは抽出のビットの重みで説明できる（どの範囲でも単調、残差の最大は範囲 1 で 153 µV、範囲 2 以上で 166 µV）。11/2：電源投入から CIC の出力までの通し（r6、r7、10 ms）が最後まで回った。有効な 3 サンプルはどれも RTL とビット一致し、電極から DATA までの利得は 306.6（r6 と r7 のサンプルの差は 7 LSB 以内）。11/8〜9：デジタル側（9 個の bi_24t、ブロックの電源電流、チップの DVDD／DVSS）を、9 回目の通しのチャンク 14 に入れて比べた（`digital_noise.py`）。リングの揺れは 18 → 59 mV p-p、ADC のデジタルの電源は 417 mV p-p。結合で AFE の出力にできる一定のずれは電極換算 0.21 nV で、DATA の約 1 LSB、計算の差（0.13 nV）と同じ大きさ。ADC の符号は 48 フレームとも一致した。この結合は MCLK に同期するので、一定のずれにしかならない。SPI の読み出しでも符号は一致し、周期ごとの差は 0.2 nV rms 以下。11/9：RAW の出力を動かす組（b3）も最後まで回った。AFE の入力の揺れは b1 の約 2 倍（同相 15.2 mV p-p、差動 16.7 µV p-p）になるが、出力の一定のずれは −0.11 nV、周期ごとの残りは 0.11 nV rms で、符号は 48 フレームとも一致した（図 31、`documentation/figures/gf180/r10_20261109/viz/`）。11/11：9 回目のチップの配線での通しも最後まで回った。有効な 3 サンプルはどれも RTL とビット一致し、7 回目より 0.064 % 大きい。差はすべて AFE の利得の差で、AFE の AVSS の持ち上がりが小さくなって AFE の電流が約 1 % 増えたため。ADC 側は 7 回目と同じだった。11/11：図 31 のデッキの ADC を 10 回目の抽出に替えて、5 本を回し直した（b2 は区切り点の近さで一度止まり、MISO を 0.125 ns ずらして回し直した）。5 本とも 48 フレームの ADC の符号が 7 回目の抽出のときと同じだった。結合の一定のずれは電極換算 0.30 nV で、計算の差（0.27 nV）と同じ大きさ。SPI の読み出しと RAW の出力でも、周期ごとの残りは 0.3 nV rms 以下。図 31 を描き直した。11/13：10 回目の通しも最後まで回った。有効な 3 サンプルはどれも RTL とビット一致し、9 回目との差は +4、−1、−3 LSB（1 本の中の続くサンプルどうしの違いと同じ大きさ）、電源と基準は 9 回目と同じ。11 回目の通しは、12 回目に替えたのでチャンク 4 で止めた。11/13：11 回目と 12 回目のチップの配線で雑音を回し直し、9 回目と 0.001 nVrms 以内で同じ（AFE_IBIAS 3 で typical 5.327 nVrms、モンテカルロ 30 の最悪 5.498 nVrms）。11/15：12 回目の起動のバッチは 50 本のうち 32 本が済み（モンテカルロ 18 本）、9 回目と同じ値（バイアス 0.91〜0.95 ms、解除から 0.1 mV まで 9 µs 以内、出力 −0.099 ± 0.006 mV、電極のオフセットの残差は出力で 0.06 mV 以内で同じ）。電源投入をプロセスの角 4 つ × AVDD ±5 % と電源の立ち上がり 10 µs〜100 ms で回し、20 本とも起動した（起動回路は AVDD 0.61〜1.03 V で切れる。図 37、`powerup_checks.py`）。基板への要求に、AVDD と外の基準を DVDD より先に上げないこと（アナログのパッドの ESD ダイオードが DVDD のリングへ向く）と、解除を電源が上がりきってから数えることを足した。11/16：12 回目の起動のバッチ 50 本と通し（71 時間）が終わった。通しの有効な 3 サンプルはどれも RTL とビット一致し、10 回目より −0.175 %（ADC の基準電圧 +0.057 %、AFE の利得 −0.116 %）。角での AFE の解除（図 38）：どの角でも動き出すが、BOOST_TRIM がリセット値 4/4 のままだと、フルスケールの HD3 が ss −97.6、sf −96.8、fs −106.1 dBc で要求（−111 dBc）に届かない。AVDD −5 % ではどのトリムでも届かない。AVDD を上げるとよくなり、3.40 V と角ごとのトリムで 5 つの角が届く。チップの窓は約 3.394〜3.456 V（図 41）。ADC は ADC の電源 3.39 V でも 3.245 V と同じに動く。ただし、typical を地図の 2/2 にすると、AVDD を上げた分だけ AFE の雑音が増える（3.45 V で 5.73 nVrms、予算で 16.47 bit。BTRIM_P を 4 以上にすれば平ら。図 42）。BTRIM_P 4 でも HD3 は届く：チップの HD3 は、typical 4/2 が 3.40 V で −117.0 dBc（2/2 の −116.8 と同じ）、リセット値の 4/4 が 3.40 V で −115.6、3.45 V で −116.4 dBc（要求に 4.6 dB 以上の余裕）。typical のトリムは 4/2 を勧める（雑音は平らで、予算は 3.45 V でも 16.56 bit。窓の上の端は ff 8/2 の約 3.460 V になる）。電極のオフセットで飽和した最初の電源投入（図 39）：書いても増幅器は出力チョッパの後ろで飽和したまま残るので、ホストは書くたびに AFE_RST を 100 µs 上げる（typical と ss で確かめた。ss では typical の M では残差が大きく、M の探索がもう 1 回要る）。パルスなしでも 300 mV は書いてから 2.82 ms で ADC の範囲に戻るが、11 ms でも出力は図 27 より入力換算約 −31 µV ずれ、入力のコモンモード（0.18 V 低い）と一緒に時定数約 47 ms で抜けていく（11/17、11 ms まで回した。パルスなら 0.5 µs で範囲に入り、2.5 ms 後に +0.7 µV）。ADC は過負荷から自分で戻る（最大 0.22 ms、図 40）。デジタル側（図 31）を 12 回目の通しのチャンク 14 で回し直した（4 本、23 時 44 分に済んだ）：48 フレームの ADC の符号はどの組でも一致し、結合の一定のずれは電極換算 0.02 nV（計算の差 0.25 nV より小さい）、SPI の読み出しは +0.42 nV、RAW の出力は +0.64 nV（周期ごとの残り 0.27 nV rms 以下）で、10 回目と同じ大きさ。リングと電源の揺れも 10 回目と同じ。図は 12 回目の 42 枚がそろい（39 は 11/17 に仕上げた）、11/17 に 43 を足した。11/17：PDK にない係数への余裕（図 43）：DAC1 の素子のばらつきを仮の係数の 8 倍にしても ENOB は変わらない（30 ダイの平均 16.60 bit）。入力抵抗の電圧係数は vc2 が約 300 ppm/V² まで 16.5 bit に届く。オフセット DAC は MIM のばらつき 4 倍まで単調で、運転中の窓の内側。チップを直す必要はない。11/17：同相の除去（CMRR）と電極の不釣り合い（`afe_startup.py` に体の同相と電極のインピーダンスを足し、`cmrr.py` で解析。図 44 は途中の版）。1 kHz で、釣り合った電極では 105.4 dB（チップ自身の分）、ELP に 51 kΩ ∥ 47 nF では 50.7 dB で、ほぼ全部が脚の電流が電極のインピーダンスを流れる分。脚 1 本から見た同相は 18.6 nS ∥ 138.5 pF（Cin を通る分 63.6 pF、入力チョッパのスイッチ 65.2 pF、パッドなど 9.7 pF。コンダクタンスのうち 6.1 nS は ngspice の既定の gmin の見かけ）。朝の見込み（−64 dB）はこの容量を落としていて、50 Hz では 54.3〜54.7 dB（100 mV pk の同相で電極換算 184〜193 µV pk）の見込み。11/18：基準（1 時 45 分に済んだ）を差し引いて当てはめ直しても同じ（105.4 dB、50.7 dB）。解除までは脚 1 本の同相が約 795 pF で、不釣り合いの 47 nF に残る電荷が時定数 2.4 ms で窓に入るので、当てはめに指数を足した。AFE_RST を上げているあいだは、チョッパが動いているとピンの差動が約 5.4 kΩ（Cin のスイッチト・キャパシタ。Cpf の打ち消しが働かない）になり、電極の DC オフセットが電極のコンデンサを充電する。51 kΩ ∥ 47 nF と 300 mV では、11/16 の手順（書くたびに 100 µs）で AFE が書いてから約 12 ms 飽和する見込み。図 39 は電極 100 Ω だったので出なかった。AFE_RST と一緒に CHOP_EN（同じ CONTROL）を下げる手順を、2 時 1 分から回して確かめている（`afe_saturation.py --zp --chop-hold`）。11/18：50 Hz の 2 本も 5 時 40 分ごろ 26 ms まで回った（1 周期）。51 kΩ ∥ 47 nF で 54.2 dB（100 mV pk の同相で電極換算 194 µV pk、フルスケールの 21 %。gmin の見かけを除くと 54.6 dB）、釣り合いで 151 dB で、見込みどおり。出力はシミュレーションのピンの差動と 0.04 % で合い（50 Hz の利得 297.58）、ほぼ全部が電極の側。脚のコンダクタンスのうち 12.2 nS は、Cin を通して見える入力のコモンモードの DC 経路（時定数 47 ms）。1 周期の当てはめでは、47 nF の指数をチップの側（脚の電流、体）にも入れると脚のアドミタンスが最大 30 % 動くので、出力とピンだけに入れた（当てはめを変えても 54.14〜54.26 dB）。CMRR のためにチップを直す必要はない。図 44 を仕上げた。11/18 の朝：DAC で打ち消した電極のオフセットには、解除のあとも約 5.4 kΩ がかかることが分かった（図 27 のランで 10〜300 mV とも 5.36〜5.44 kΩ。Cin のスイッチト・キャパシタで、Cpf は出力に出ている分しか補わない）。電極にオフセット / 5.4 kΩ（30 mV で 5.4 µA、300 mV で 54 µA）の DC 電流が流れ、10/23 の要求（電極 1 本 1 nA 以下）を DAC の 1 段（56 nA）から外れる。電極に抵抗 R_e があると、ピンに届くオフセットは 5.4 kΩ / (5.4 kΩ + R_e) 倍（51 kΩ で 300 → 28.4 mV）。未明の見立て（解除のあとは MΩ、書いてから約 12 ms 飽和）はこの点で誤り。D（電極 100 Ω、CHOP_EN を下げる）は、解除のあと入力のコモンモードがはじめから釣り合いにあり、図 27 より出力が電極換算 2.9 µV 釣り合いに近い。RTL のリセット値は変えないことを勧める。この DC 電流のために今回 rev でチップを直すことはせず、限界として記録する（11/18、朝の勧めに対する返事「go」）。B（51 kΩ ∥ 47 nF、M 983、CHOP_EN を下げる。6 時 21 分に 10 ms まで回った）：解除のときピンは 116 mV で、M 983（295.8 mV）に対して AFE は逆向きに飽和したまま残り、チップがピンを −349 mV へ引く（時定数 0.57 ms、10 ms で −348 mV、電極に 12.7 µA、ADC の入力 −1.80 V）。電極 100 Ω では同じ書き込みで解除と同時に範囲に入る。合わない M を残したまま待たないこと、パルスのあいだもチョッパを動かすことを、手順に書く（図 45、途中の版）。E、F（M 94、パルス 1 ms と 100 µs。8 時 47 分から回し直し、11 時 58 分に 10 ms まで回った）は、どちらも増幅器の入力 +5.0 mV（ADC の入力 +1.0 V）に落ち着き、範囲に戻らなかった。パルスの長さは行き着く先を変えず、行き着く先は M で決まる。M 94 は、ピンの単純な平均（28.4 mV）に合わせたもので、増幅器が取り込むチョッパの切り替えの直前の値（約 1.3 mV 高い）に合っていなかった。読み（見立て）：解除のあとは DAC で打ち消した分だけが電流を流す（M × 0.301 mV / 5.56 kΩ）ので、電極の電圧降下が M で動き、M の 1 段は増幅器の入力で 0.301 mV × (1 + R_e / 5.56 kΩ)、51 kΩ で約 3 mV（ADC の範囲 ±1.63 mV とほぼ同じ）。最良の M でも最大 ±1.5 mV が残り、約 55 kΩ（R_sc 5.67 kΩ）を超えると範囲に入らないオフセットが出る。原因は DAC で打ち消したオフセットの電流と同じ。G（M 98、99、100、パルス 1 ms。15 時 42〜46 分に 10 ms まで回った）で確かめた：範囲に入るのは M 100 だけで、ホストの読み（ADC の入力 / 297.5）は M 100 で −0.79 mV、M 99 で +1.63 mV（範囲の端）、M 98 で +2.55 mV、M 94 で +3.33 mV に落ち着く。範囲の中ではチップは電極から見て電流源（M × 0.301 mV / 5.67 kΩ。電極は 51 kΩ × 47 nF = 2.4 ms で動く）で、1 段は 3.0 mV（M 99 → 100 は範囲の端の圧縮で 2.42 mV）。範囲の外では Cpf が残差を補いきれず、チップが電極を引き戻す（時定数 0.35〜0.40 ms）。電極の抵抗の変化への感度は電流そのもの（5.3 µV/Ω、範囲の中心から 0.3 kΩ で範囲を出る）で、朝に書いた 0.50 µV/Ω（チップを抵抗とみた値）の約 10 倍だった。アクティブ電極なら問題は出ない。チップを直すかを、夕方にユーザーに判断をあおいでいる。A は B から読めるので回し直さない。11/18 の構成決定で、AVDD はダイごとに合わせると決めた（ユーザーの判断。トリムも試験でダイごとに、F2、F4）。11/18 の夜：同相の釣り合いの値を帯域内（チップの CIC が見る値、`cmrr.py` の inband）で測り直した。1 kHz の 105.4 dB（0.52 µV）は、チョッパの間で起きる変換（出力のチョッパで ADC の入力に矩形波として出る。同相 97.5 mV pk で 104.7 mV pk、50 Hz では 99.95 mV pk で 7.1 mV）を、チョッパ周期の平均が折り返した見かけで、帯域内では 148 dB（50 Hz は 147 dB）。不釣り合いの値は 0.13 % 以内で同じで、結論は変わらない。図 44 を直した。実際のレギュレータの PSRR は、21 時 44 分から AVDD と DVDD のリップル（電極は釣り合いと 51 kΩ ∥ 47 nF）を回している（`afe_startup.py --rip`、`psrr.py`）。11/19：PSRR の typical（図 46）。低い周波数のリップルはチョッパで除かれる（釣り合いで AVDD の 1 kHz 139 dB、DVDD 197 dB）。AVDD の 128 kHz の奇数倍のそばは、チョッパの間の変換（増幅器の出力に 1.10 V/V）が出力のチョッパで帯域に戻り、52.4 dB（384 kHz のそばは 61.2 dB、偶数倍は 132 dB）。51 kΩ ∥ 47 nF では帯域内の AVDD が 50 Hz で 62.5 dB（脚 1 本の AVDD への 59 pF：入力スイッチのウェル 24、Cin を通る分 24、残り 11）。基板への要求を F2 の (4) に書いた。モンテカルロ 8 と MOS の角 4 を 1 時 8 分〜7 時 57 分に回した。8 ダイは 128 kHz のそばで 52.1〜52.8 dB、チョッパの間の変換 1.05〜1.13 V/V で typical と同じ（ミスマッチではない）。角は ff が 51.5 dB（1.23 V/V）、ss が 53.2 dB（0.99 V/V）。F2 の (4) を ff から約 40 nV/√Hz に決め直した。変換の出どころ：抽出では INN が INP より AVDD に 1.96 pF、VBP に 0.53 pF、BLP に 0.16 pF 多い。この容量を INP にそろえた診断（A：AVDD、B：VBP と BLP も。設計の変更ではない）で、変換は 1.10 → 0.241 → 0.058 V/V、128 kHz のそばは 52.4 → 65.6 → 78.0 dB（図 47）。変換の約 95 % は INN の余分な配線の容量から来る。場所は増幅器のコアの上で、INN は Metal3 と Metal4、INP は Metal5 を通る（INN の Metal4 が AVDD の n-well の上に 97,000 µm²、VBP のゲートの上に 38,000 µm²）。角で動くのは、PDK の角が MIM の角（ff 0.9 倍、ss 1.1 倍）も変え、変換が MIM の Cf に反比例するため（AFE の利得は 1 % 以内）。ELP に 51 kΩ ∥ 47 nF でそろえた C（12 時 34 分）でも、128 kHz のそばは 47.5 → 74.6 dB、384 kHz のそばは 53.6 → 82.5 dB、許せる雑音は 26 → 605 nV/√Hz（1 kHz の 58.1 dB は、ピンで脚の不釣り合いから入る分なので変わらない）。基板への要求で受けるか、r13 で INN の配線を直すかは、判断をあおいでいる | 11/19 | ▶ |
 
 ## E. レイアウトと統合
 

diff --git a/first_tapeout_eeg/documentation/weekly_reports/wr_2026-1113-1119.md b/first_tapeout_eeg/documentation/weekly_reports/wr_2026-1113-1119.md
@@ -16,7 +16,7 @@
 - **AFE の HD3 は AVDD に 1 対 1 で従う**（11/16、図 41）。−5 % の AVDD ではどの角でも要求（−111 dBc）を外れる。**基板の AVDD は、調整できるレギュレータでダイごとに 3.40〜3.45 V に合わせる**と決めた（11/18、ユーザーの判断）。BOOST_TRIM も試験でダイごとに選ぶ。typical の BOOST_TRIM は、雑音が AVDD によらず平らになる 4/2 を勧める（図 42）。
 - PDK にない係数（DAC1 の素子のばらつき、入力抵抗の電圧係数、オフセット DAC の MIM のばらつき）は、仮の値の 4 倍まで要求に影響しない（11/17、図 43）。
 - **同相の除去（CMRR）を初めて測った**（11/17〜18、図 44）。電極の片方に 51 kΩ ∥ 47 nF があると、50 Hz で 54.2 dB（体の 100 mV pk の同相で電極換算 194 µV pk、フルスケールの 21 %）。ほぼ全部が電極の側で、チップ自身は 151 dB。チップを直す必要はない。
-- **電源の除去（PSRR）を測った**（11/18〜19、図 46）。低い周波数のレギュレータのリップルはチョッパで除かれる（釣り合いで AVDD 139 dB、DVDD 197 dB）。**AVDD の 128 kHz の奇数倍のそばのリップルは、チョッパの間の変換が出力のチョッパで帯域に戻り、52 dB しか除かれない**（チップ自身、typical）。51 kΩ ∥ 47 nF の電極では、帯域内の AVDD が 50 Hz で 62.5 dB。基板への要求にした：AVDD は低雑音の LDO で、128／384 kHz のそばの雑音が約 40 nV/√Hz 以下、帯域内は約 225 nV/√Hz 以下（51 kΩ ∥ 47 nF）。モンテカルロ 8 ダイでも 52.1〜52.8 dB でダイによらず（ミスマッチではなく配置で決まる）、MOS の角では ff がいちばん低い 51.5 dB。**変換は、増幅器の入力 INN の余分な配線の容量（AVDD に +1.96 pF など）から来る**と分かった（11/19、図 47）。INP にそろえた診断のデッキでは、128 kHz のそばが 78 dB になる。角で動くのは、PDK の角が MIM の帰還容量も変えるため。チップを直すか（r13）は判断をあおぐ。
+- **電源の除去（PSRR）を測った**（11/18〜19、図 46）。低い周波数のレギュレータのリップルはチョッパで除かれる（釣り合いで AVDD 139 dB、DVDD 197 dB）。**AVDD の 128 kHz の奇数倍のそばのリップルは、チョッパの間の変換が出力のチョッパで帯域に戻り、52 dB しか除かれない**（チップ自身、typical）。51 kΩ ∥ 47 nF の電極では、帯域内の AVDD が 50 Hz で 62.5 dB。基板への要求にした：AVDD は低雑音の LDO で、128／384 kHz のそばの雑音が約 40 nV/√Hz 以下、帯域内は約 225 nV/√Hz 以下（51 kΩ ∥ 47 nF）。モンテカルロ 8 ダイでも 52.1〜52.8 dB でダイによらず（ミスマッチではなく配置で決まる）、MOS の角では ff がいちばん低い 51.5 dB。**変換は、増幅器の入力 INN の余分な配線の容量（AVDD に +1.96 pF など）から来る**と分かった（11/19、図 47）。INP にそろえた診断のデッキでは、128 kHz のそばが 78 dB になり、51 kΩ ∥ 47 nF の電極でも 47.5 から 74.6 dB になる。角で動くのは、PDK の角が MIM の帰還容量も変えるため。チップを直すか（r13）は判断をあおいでいる。
 - **DAC で打ち消した電極のオフセットが、電極に DC 電流を流し続けることが分かった**（11/18）。オフセット / 5.4 kΩ（300 mV で 54 µA）で、10/23 に決めた要求（電極 1 本 1 nA 以下）を DAC の 1 段から外れる。**今回 rev ではチップを直さず、限界として記録する**（11/18、勧めに対するユーザーの返事「go」）。
 - **電極に抵抗とコンデンサがあるときの起動を回した**（11/18、図 45）。M が電極に合わないと、AFE は逆向きに飽和したまま残り、チップが電極を逆へ引く（−349 mV、12.7 µA）。51 kΩ ∥ 47 nF では、解除のあとの電極の電流が DAC で打ち消した分で決まるので、**M の 1 段が増幅器の入力で約 3 mV（ADC の範囲とほぼ同じ）になる**（M 98〜100 のランで確かめた。範囲に入るのは M 100 だけで、ホストの読みは −0.79 mV。M 99 は範囲の端）。範囲の中のチップは電極から見て電流源なので、**電極の抵抗の変化への感度は電流そのもの（300 mV、51 kΩ で 5.3 µV/Ω）で、朝に見積もった値の約 10 倍**だった。アクティブ電極なら問題は出ない。チップを直すかは、G の結果を受けてもう一度判断をあおいでいる。
 - 外付けの SSD（mukiebi）は、中身を消さずにそのまま保管すると決めた（11/16、ユーザーの判断）。移す道具と目録は `gf180/tools/archive/` に置いた。
@@ -122,11 +122,11 @@ AVDD か DVDD のレギュレータの出力に 10 mV pk の音を 4 つ（1 kHz
 - 変換の出どころ（図 47、`psrr_diag.py`）：抽出では、増幅器の入力の INN が INP より AVDD に 1.96 pF、VBP に 0.53 pF、BLP に 0.16 pF 多くつながっていて、実効の帰還容量 2.14 pF で割ると 1.17 V/V（測った値 1.10）。
   - この容量を INP にそろえた診断のデッキ（設計の変更ではない）では、AVDD だけで変換が 0.241 V/V（128 kHz のそば 65.6 dB）に、VBP と BLP もそろえると 0.058 V/V（78.0 dB、384 kHz のそば 87.7 dB）に下がった。**変換の約 95 % は INN の余分な配線の容量から来る。** 場所は増幅器のコアの上で、INN は Metal3 と Metal4、INP は Metal5 を通るため、INN だけが下の AVDD の n-well と電流源のゲート（VBP）に近い（図 47 の (e)）。そろえれば、128 kHz のそばに許せる雑音は typical で 47 から約 900 nV/√Hz になる。
   - 角で変換が −10〜+12 % 動くのは、PDK の角が MIM の角（ff 0.9 倍、ss 1.1 倍）も変え、変換が帰還容量 Cf（MIM）に反比例するため（ff 1.228 V/V、見込み 1.222）。AFE の利得（Cin / Cf）は 1 % 以内しか動かないので、F2 の (4) の値はそのまま。
-  - ELP に 51 kΩ ∥ 47 nF の電極でそろえた C を回している。チップを直すか（r13）は、C のあとで判断をあおぐ。
+  - ELP に 51 kΩ ∥ 47 nF の電極でそろえた C（12 時 34 分に回った）：128 kHz のそばは 47.5 → 74.6 dB、384 kHz のそばは 53.6 → 82.5 dB で、許せる雑音は 26 → 605 nV/√Hz。1 kHz（58.1 → 58.2 dB）は、ピンで脚の不釣り合いから入る分なので変わらない。直せば、基板への要求でいちばんきびしいのは帯域内の約 225 nV/√Hz（51 kΩ ∥ 47 nF）になる。チップを直すか（r13）は判断をあおいでいる。
 
 ![電源の除去（図 46）](../figures/gf180/r12_20261113/viz/gf180_viz_r12_46_psrr.png)
 
-![変換の出どころ（図 47、途中の版）](../figures/gf180/r12_20261113/viz/gf180_viz_r12_47_psrr_diag.png)
+![変換の出どころ（図 47）](../figures/gf180/r12_20261113/viz/gf180_viz_r12_47_psrr_diag.png)
 
 ## DAC で打ち消したオフセットが電極に流す電流と、電極込みの起動（11/18、図 45）
 
@@ -164,9 +164,9 @@ AVDD か DVDD のレギュレータの出力に 10 mV pk の音を 4 つ（1 kHz
   - AVDD：調整できるレギュレータで、ダイごとに合わせる（決めた。ss のダイは 3.45 V、ほかは 3.40〜3.43 V。試験で正弦波の THD を見ながら BOOST_TRIM と一緒に決める）。
   - BOOST_TRIM：AVDD と一緒に、試験で THD と雑音から決めた値をダイごとに書く。typical の出発点は 4/2（ファームウェア）。
   - 電極のオフセットの手順：DAC を書くたびに AFE_RST のパルス、パルスのあいだもチョッパを動かす。パルスの長さは行き着く先を変えない（E、F）。抵抗の大きい電極では M の 1 段が約 3 mV になるので、M は探索で決める。G（M 98〜100）で確かめ、範囲に入るのは M 100 だけだった。ホストは電極が落ち着くまで（5 × R_e × C_e）待って読む。
-- **PSRR**：128 kHz の奇数倍のそばの折り返しは、INN の余分な配線の容量から来る。基板への要求（約 40 nV/√Hz）で受けるか、r13 で INN の配線を直すかを、C（51 kΩ ∥ 47 nF でそろえた診断）のあとで判断をあおぐ。
+- **PSRR**：128 kHz の奇数倍のそばの折り返しは、INN の余分な配線の容量から来る。そろえれば 51 kΩ ∥ 47 nF の電極でも 74.6 dB になる（診断 C）。基板への要求（約 40 nV/√Hz、51 kΩ ∥ 47 nF で約 22 nV/√Hz）で受けるか、r13 で INN の配線を直すかを、判断をあおいでいる。
 - まだ確かめていないもの：
-  - PSRR の 51 kΩ ∥ 47 nF の電極でそろえたとき（C を回している）、温度、ダイごとの AVDD（3.4 V 前後）での値、基板を通る結合
+  - PSRR の温度とダイごとの AVDD（3.4 V 前後）での値、基板を通る結合
   - 電源を入れる順序（基板の決まりにしただけ）
   - CMRR のモンテカルロと角、濡れた電極と乾いた電極のモデル、体の同相の大きさの前提
   - 探索そのもの（M を書き直す 2 回目以降）と、パルスを下ろすチョッパの位相

diff --git a/first_tapeout_eeg/documentation/gf180_verification_coverage_20261029.md b/first_tapeout_eeg/documentation/gf180_verification_coverage_20261029.md
@@ -57,7 +57,7 @@
 | ADC のループが安定 | トランジスタのループの角とモンテカルロ（r7）、行動モデル | ✅ r7 の角とモンテカルロ 10 は済んだ。11/14 に r11 の抽出（r12 と同じブロック）で、ブロックのモンテカルロ 30 と角 11 を行動モデルで回し直した（D3。どれも暴走しない） | — |
 | AFE と ADC をつないで動く | 寄生込みの短い通し（70 µs）、電源投入からの通し | ✅ 電源投入からの通しは r12 で 11/16 に済んだ | — |
 | MIM と抵抗の素子ごとのばらつき | 仮の係数（PDK にない）。11/17 に余裕を確かめた（図 43、`enob_sine.py --margin`、`margin_fig.py`）：DAC1 の素子は 8 倍でも ENOB が変わらず、オフセット DAC は 4 倍まで単調で運転中の窓の内側。ポリ抵抗の電圧係数の許容は vc2 で約 300 ppm/V² | ▶ | 係数そのものは実機で（フルスケールの HD3、DAC1 とオフセット DAC の段） |
-| レギュレータの雑音の出方（PSRR） | 11/18〜19：AVDD と DVDD のレギュレータにリップル（10 mV pk の 4 音：1 kHz と、チョッパの 1〜3 倍の高調波のそば）を乗せた start のデッキ（`afe_startup.py --rip`、`psrr.py`、図 46。電極は釣り合いと ELP に 51 kΩ ∥ 47 nF）。typical：低い周波数は釣り合いで AVDD 139 dB、DVDD 197 dB。AVDD の 128 kHz の奇数倍のそばは、チョッパの間の変換が帯域に戻って 52.4 dB（384 kHz のそば 61.2 dB）。51 kΩ ∥ 47 nF では帯域内の AVDD が 50 Hz で 62.5 dB。基板への要求にした（管理表 F2 の (4)：AVDD は 128／384 kHz のそばで約 40 nV/√Hz 以下、帯域内約 225 nV/√Hz 以下。モンテカルロと角のいちばんきびしいもの（ff）から決め直した）。モンテカルロ 8（11/19）：52.1〜52.8 dB で typical と同じ。MOS の角 4：ff 51.5 dB〜ss 53.2 dB（PDK の角が MIM の Cf も変えるため）。変換の出どころ（11/19、図 47）は、抽出の INN の余分な配線の容量（AVDD に +1.96 pF など。コアの上で INN は Metal3 と Metal4、INP は Metal5）。INP にそろえた診断のデッキで、128 kHz のそばが 78.0 dB | ▶ typical、モンテカルロ、角、出どころは済んだ | 51 kΩ ∥ 47 nF の電極で INN をそろえたとき（C を実行中）、AVDD の 50 Hz のラン、温度、ダイごとの AVDD（3.4 V 前後） |
+| レギュレータの雑音の出方（PSRR） | 11/18〜19：AVDD と DVDD のレギュレータにリップル（10 mV pk の 4 音：1 kHz と、チョッパの 1〜3 倍の高調波のそば）を乗せた start のデッキ（`afe_startup.py --rip`、`psrr.py`、図 46。電極は釣り合いと ELP に 51 kΩ ∥ 47 nF）。typical：低い周波数は釣り合いで AVDD 139 dB、DVDD 197 dB。AVDD の 128 kHz の奇数倍のそばは、チョッパの間の変換が帯域に戻って 52.4 dB（384 kHz のそば 61.2 dB）。51 kΩ ∥ 47 nF では帯域内の AVDD が 50 Hz で 62.5 dB。基板への要求にした（管理表 F2 の (4)：AVDD は 128／384 kHz のそばで約 40 nV/√Hz 以下、帯域内約 225 nV/√Hz 以下。モンテカルロと角のいちばんきびしいもの（ff）から決め直した）。モンテカルロ 8（11/19）：52.1〜52.8 dB で typical と同じ。MOS の角 4：ff 51.5 dB〜ss 53.2 dB（PDK の角が MIM の Cf も変えるため）。変換の出どころ（11/19、図 47）は、抽出の INN の余分な配線の容量（AVDD に +1.96 pF など。コアの上で INN は Metal3 と Metal4、INP は Metal5）。INP にそろえた診断のデッキで、128 kHz のそばが 78.0 dB（51 kΩ ∥ 47 nF の電極では 47.5 → 74.6 dB。1 kHz の 58.1 dB は変わらない） | ▶ typical、モンテカルロ、角、出どころは済んだ | r13 で INN の配線を直すかの判断、AVDD の 50 Hz のラン、温度、ダイごとの AVDD（3.4 V 前後） |
 | 電極をつないだときの性能 | 11/17〜：同相の除去と電極の不釣り合い（`cmrr.py`、`afe_startup.py` の `--cm`、`--zp`、`--zn`。`gf180_realistic_eval_20261028.md` の「同相の除去」、図 44）。1 kHz：釣り合った電極で 148 dB（帯域内。105.4 dB はチョッパ周期の平均の折り返しの見かけだった、11/18 の夜）、ELP に 51 kΩ ∥ 47 nF で 50.7 dB（ほぼ全部が電極の側。11/18 に基準を差し引いて当てはめ直しても同じ）。脚 1 本 18.6 nS ∥ 138.5 pF（入力スイッチ 65.2 pF、Cin を通る分 63.6 pF）。解除までは約 795 pF。AFE_RST を上げているあいだは、チョッパが動いているとピンの差動が約 5.4 kΩ になり、電極のオフセットが電極のコンデンサを充電する（11/18。`afe_saturation.py --zp --chop-hold` で確かめている）。50 Hz（11/18、1 周期）：51 kΩ ∥ 47 nF で 54.2 dB（100 mV pk の同相で電極換算 194 µV pk。gmin の見かけを除くと 54.6 dB）、釣り合いで 147 dB（帯域内）。出力とピンの差動が 0.04 % で合う（ほぼ全部が電極の側）。CMRR のためにチップを直す必要はない。11/18 の朝：DAC で打ち消したオフセットには、解除のあとも約 5.4 kΩ がかかり、電極にオフセット / 5.4 kΩ の DC 電流が流れる（図 27 のランで 10〜300 mV とも 5.36〜5.44 kΩ。10/23 の要求、電極 1 本 1 nA 以下を外れる）。電極に抵抗 R_e があると、ピンに届くオフセットは 5.4 kΩ / (5.4 kΩ + R_e) 倍。今回 rev ではチップを直さず、限界として記録する（11/18）。電極込みの起動（図 45）：B（51 kΩ ∥ 47 nF、M 983、CHOP_EN を下げる）は、合わない M で AFE が逆向きに飽和したまま残り、チップがピンを −349 mV へ引く（電極に 12.7 µA）。E、F（M 94、パルス 1 ms と 100 µs）はどちらも増幅器の入力 +5.0 mV に落ち着き、範囲に戻らない。解除のあとは打ち消した分だけが電流を流すので、M の 1 段は増幅器の入力で約 (1 + R_e / 5.56 kΩ) 倍、51 kΩ で 3.0 mV。M 98〜100 で確かめた：範囲に入るのは M 100 だけ（ホストの読み −0.79 mV、M 99 は範囲の端）。範囲の中のチップは電極から見て電流源で、電極の抵抗の変化への感度は電流そのもの（5.3 µV/Ω） | ▶ チップを直すかの判断待ち | 濡れた電極と乾いた電極のモデル、モンテカルロ、角はこのあと |
 
 ## 5. デジタルが動く
@@ -99,7 +99,7 @@
 4. **AFE の AVSS の電流密度**：Metal4 の渡り 2 本が、typical で上限の 87 %（+3σ で 101 %）だった。10/29 のユーザーの判断で、9 回目のチップで同じ大きさの Metal3 を下に足し、46／42 %（+3σ で 53／48 %）にした。渡りの下を通っていた 10 本（チョッパのクロック、制御、VBN、VBCM）は、その部分だけ同じ列のまま Metal2 に下ろした。パッドは最大 81 %。
 5. **ESD の見直し**：電極の入力（ELP／ELN）とアナログのパッドから、コアのゲートまでの経路。
 6. **デジタルの雑音のアナログへの入り方**：見積もり。
-7. **レギュレータの雑音（PSRR）**：11/19 に typical、モンテカルロ 8 ダイ、MOS の角 4 つで確かめた（図 46）。AVDD の 128 kHz の奇数倍のそばのリップルが、チョッパの間の変換で帯域に戻る（51.5〜53.2 dB、いちばん低いのは ff）ので、基板への要求にした（管理表 F2 の (4)、約 40 nV/√Hz）。ダイによらない（ミスマッチではない）。変換の出どころは、抽出の INN の余分な配線の容量（INP にそろえた診断で 78.0 dB、図 47）。チップを直すか（r13）は判断をあおぐ。
+7. **レギュレータの雑音（PSRR）**：11/19 に typical、モンテカルロ 8 ダイ、MOS の角 4 つで確かめた（図 46）。AVDD の 128 kHz の奇数倍のそばのリップルが、チョッパの間の変換で帯域に戻る（51.5〜53.2 dB、いちばん低いのは ff）ので、基板への要求にした（管理表 F2 の (4)、約 40 nV/√Hz）。ダイによらない（ミスマッチではない）。変換の出どころは、抽出の INN の余分な配線の容量（INP にそろえた診断で 78.0 dB、51 kΩ ∥ 47 nF の電極でも 74.6 dB、図 47）。チップを直すか（r13）は判断をあおいでいる。
 8. 温度と、MIM と抵抗の素子ごとのばらつき：今回はユーザーの指定と PDK の制約で、このまま。11/17 に、ばらつきの余裕（仮の係数の 4〜8 倍まで要求に影響しない）と、ポリ抵抗の電圧係数の許容（vc2 で約 300 ppm/V²）を確かめた（図 43）。
 9. **ブロックの中の電源の端子**（11/9 に見つけて塞いだ）：量子化器の DVSS が r0〜r9 でどこにもつながっていなかった。`supply_check.tap_check()` を毎回の流れに入れ、r10 で AVSS につないだ（`gf180_chip_assembly_20261023.md` の「組み直し（11/9、10 回目）」）。
 10. **デジタルとアナログの境目の意味**（11/9 に 1 回確かめた）：食い違いはなし。RTL かアナログの端子を変えたときは、また確かめる。

diff --git a/first_tapeout_eeg/documentation/figures/gf180/r12_20261113/README.md b/first_tapeout_eeg/documentation/figures/gf180/r12_20261113/README.md
@@ -21,7 +21,7 @@
   - 図 44（同相の除去と電極の不釣り合い）は 11/17 に途中の版（1 kHz の 2 本）を足し、11/18 の朝に 50 Hz の 2 本（26 ms まで、1 周期）が終わってから仕上げた。上の段の時間の波形は 50 Hz。11/18 の夜に、釣り合いの値を帯域内（チップの CIC が見る値）に直した（(b)、(d)、(e)）。
   - 図 45（電極に抵抗とコンデンサがあるときの起動）は 11/18 に途中の版（B と、電極 100 Ω の 2 本）を足し、昼に E、F を入れて、落ち着いたピン（チョッパの切り替えの 0.3 µs 前）と増幅器の入力で描き直した。夕方に G（M 98〜100）を入れて仕上げた（(d) はホストの読み、ADC の入力 / 297.5 を、解除の 1 ms あとからの当てはめで延ばしたもの。範囲に入るのは M 100 だけ）。
   - 図 46（電源の除去）は 11/19 に typical の 4 本（11/18 の 21 時 44 分に始め、11/19 の 0 時 58 分に終わった）で描いた。11/19 の 3 時に、モンテカルロの最初の 4 ダイ（2 時 59 分に済んだ）を (e) に足し、4 時 55 分に残りの 4 ダイ（4 時 51 分に済んだ）を足した。8 時に MOS の角 4 つ（AVDD、釣り合い。7 時 57 分に済んだ）を足して仕上げた（12 本）。(f) に 5 倍より上の奇数次も足した許せる雑音を、注に AVDD のレギュレータが 3.3 V のランであることを足した。
-  - 図 47（変換の出どころ、診断）は 11/19 に途中の版（A、B と角）を足した。C（ELP に 51 kΩ ∥ 47 nF）が済んだら仕上げる。
+  - 図 47（変換の出どころ、診断）は 11/19 に途中の版（A、B と角）を足し、昼に C（ELP に 51 kΩ ∥ 47 nF）を入れて仕上げた。
 - **12 回目で変わっていないものは、最後に変わった版の結果を使った**（変わっていないことは XOR かデッキの比べで確かめた）。
   - adc_rdac、OTA、量子化器、eeg_bias、eeg_ref は 11 回目と同じなので、ブロックのモンテカルロ（図 29）とポリ抵抗のフリッカ（図 33）は 11 回目のもの。行動モデル（図 29）も 11 回目のブロックのモンテカルロから回した（`runs/adc_beh_mc_r11/`）。
   - 寄生込みの E2E（図 16〜18）の d4 と sch は、11 回目の実行の写し。回路図のデッキは版によらず、`pex_e2e.deck_text()` が 11 回目のものと 1 文字も違わず、読み込むファイルもその実行より前のまま（`runs/e2e_r12/README.md`）。

diff --git a/first_tapeout_eeg/documentation/gf180_viz_20261024.md b/first_tapeout_eeg/documentation/gf180_viz_20261024.md
@@ -107,6 +107,7 @@ gf180/tools/venv310/bin/python gf180/tapeout/viz/crossings_fig.py plot
 - **11/19**：
   - 46（新しい図）：電源の除去（`psrr_fig.py`）。AVDD と DVDD のレギュレータに 10 mV pk の 4 音（1 kHz と、チョッパの 1〜3 倍の高調波のそば）を乗せた typical の 4 本（電極は釣り合いと ELP に 51 kΩ ∥ 47 nF）。(a) AVDD、釣り合いの帯域内の出力の波形（129.25 kHz と 385.75 kHz が 1.25 kHz と 1.75 kHz に戻る）、(b) 音ごとの PSRR、(c) 1 kHz の脚のアドミタンスから延ばした帯域内の PSRR、(d) AFE の雑音に 5 % 足すレギュレータの雑音（帯域内と、チョッパの高調波のそば）、(e) モンテカルロのダイと MOS の角（AVDD、釣り合い。基準なしで単独に当てはめる）の折り返した音と、チョッパの間の変換、(f) チョッパの間の変換と、脚の AVDD への容量の内訳。矢印と並列の記号は Helvetica Neue にないので、「out at」と「||」と書いた。11/19 の 3 時にモンテカルロの最初の 4 ダイを、4 時 55 分に残りの 4 ダイを、8 時に MOS の角 4 つを (e) に足して仕上げた（12 本）
   - 47（新しい図、途中の版）：変換の出どころ（`psrr_diag_fig.py`、診断）。(a) 増幅器の加算点の抽出の容量（INN と INP）、(b) INN を INP にそろえた診断 A、B のチョッパの間の変換と、静的な見積もり、(c) 帯域に戻る音と、そこに許せる雑音、(d) MOS の角の変換と PDK の MIM の角、(e) 場所（コアの上の INN の Metal3 と Metal4、INP の Metal5、AVDD の n-well と Metal5、VBP のポリ）、(f) 数。C（ELP に 51 kΩ ∥ 47 nF）は回している
+  - 47（仕上げ、11/19 の昼）：C（B と同じにそろえ、ELP に 51 kΩ ∥ 47 nF）を (c) の下の行と (f) に入れた。128 kHz のそばは 74.6 dB（typical 47.5）、384 kHz のそばは 82.5 dB（53.6）、許せる雑音は 605 nV/√Hz（26）。1 kHz は 58.2 dB（58.1）で変わらない（ピンで脚の不釣り合いから入る分）。注に、C のチョッパの間の値が当てはめで入れ替わること（帯域内の値は合う）を足した
 
 ## 図の決まり
 
